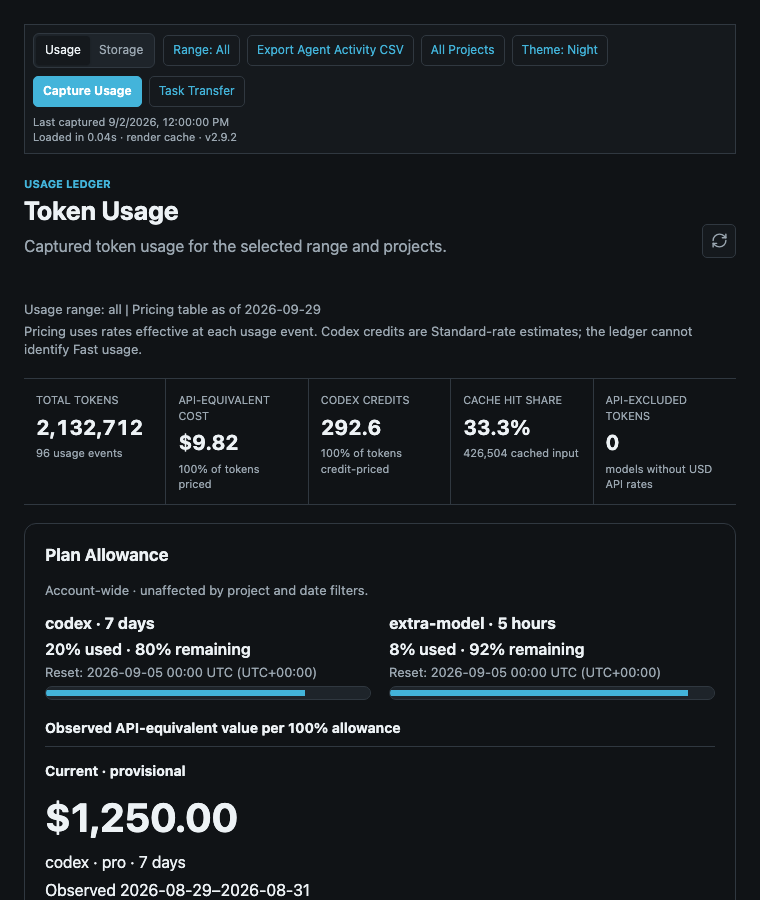
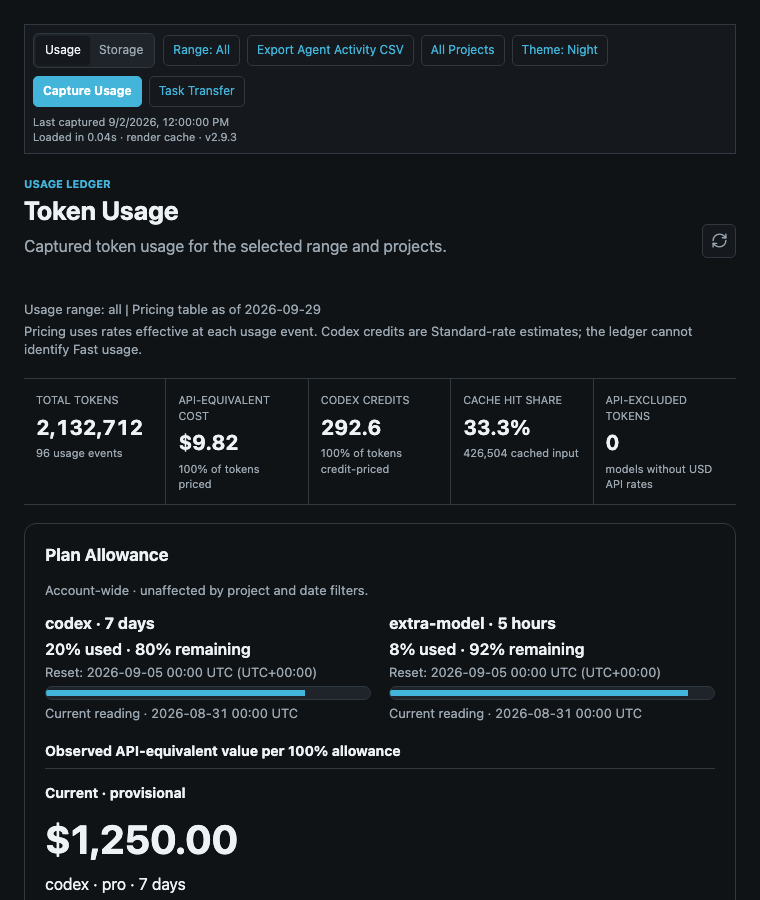
Release 2.9.3

Changed region(s): [[0.0605, 0.7778, 0.8474, 0.9956]]

diff --git a/tests/test_release_history.py b/tests/test_release_history.py
@@ -10,6 +10,7 @@ CHANGELOGS = (ROOT / "CHANGELOG.md", ROOT / "extensions/vscode/CHANGELOG.md")
 SUPPORT_DOCS = (ROOT / "SUPPORT.md", ROOT / "extensions/vscode/SUPPORT.md")
 
 ROOT_RELEASE_DATES = {
+    "2.9.3": "2026-09-29",
     "2.9.2": "2026-09-29",
     "2.9.1": "2026-09-25",
     "2.9.0": "2026-09-25",
@@ -98,6 +99,7 @@ ROOT_RELEASE_DATES = {
     "0.1.0": "2026-05-19",
 }
 EXTENSION_RELEASE_VERSIONS = (
+    "2.9.3",
     "2.9.2",
     "2.9.1",
     "2.9.0",

diff --git a/src/codex_usage/__init__.py b/src/codex_usage/__init__.py
@@ -1,3 +1,3 @@
 """Private capture and ledger core for the Codex Usage VS Code companion."""
 
-__version__ = "2.9.2"
+__version__ = "2.9.3"

diff --git a/docs/release.md b/docs/release.md
@@ -1,6 +1,6 @@
-# 2.9.2 VSIX Release Checklist
+# 2.9.3 VSIX Release Checklist
 
-Codex Usage 2.9.2 ships only the macOS Apple Silicon and Windows x64 VS Code
+Codex Usage 2.9.3 ships only the macOS Apple Silicon and Windows x64 VS Code
 Companion packages. Each VSIX contains exactly one matching, bundled Python
 collector. The extension does not require the former Tauri app, Python, `uv`,
 or a source checkout on the user's machine.
@@ -128,13 +128,13 @@ cannot be run is a release blocker, not an implicit pass.
 
 ## Marketplace Publication
 
-Confirm Python and extension metadata and lockfiles all say `2.9.2`, both
+Confirm Python and extension metadata and lockfiles all say `2.9.3`, both
 changelogs contain a dated entry, and the candidate commit is in `origin/main`.
-Only after the non-publishing platform gate succeeds, create and push `v2.9.2`:
+Only after the non-publishing platform gate succeeds, create and push `v2.9.3`:
 
 ```bash
-git tag v2.9.2
-git push origin v2.9.2
+git tag v2.9.3
+git push origin v2.9.3
 ```
 
 The tag reruns all platform gates and publishes

diff --git a/extensions/vscode/SUPPORT.md b/extensions/vscode/SUPPORT.md
@@ -3,8 +3,11 @@
 Use [GitHub Issues](https://github.com/Wenjun-Mao/codex_usage/issues) for Codex
 Usage Companion support.
 
-Include the extension version, operating system, status-bar state, whether a legacy Codex Usage background service is registered, and redacted
-**Codex Usage** Output channel text. For Task Transfer, include the operation, both computers'
+Include the extension version, operating system, status-bar state, whether a
+legacy Codex Usage background service is registered, and redacted **Codex
+Usage** Output channel text. If Plan Allowance differs from the Codex app,
+include the meter's reading label, local observation time, and redacted probe
+diagnostic. For Task Transfer, include the operation, both computers'
 platforms, transfer-folder provider, and destination-project state.
 
 Never attach raw Codex task JSONLs, `agent.json`, the durable ledger, Task

diff --git a/extensions/vscode/README.md b/extensions/vscode/README.md
@@ -27,7 +27,7 @@ No source checkout, native app, or local copy of this repository is needed.
 
 The extension ships separate platform VSIX packages for macOS 13 or later on
 Apple Silicon and Windows 10 or later on x64. Intel macOS, Windows ARM64, and
-Linux are not supported in 2.9.2.
+Linux are not supported in 2.9.3.
 
 ## What You Can Do
 
@@ -59,7 +59,9 @@ Linux are not supported in 2.9.2.
 The Companion's collector is parent-bound: automatic capture stops when VS Code
 closes. It continues while VS Code is open, even if the dashboard panel is
 closed. Quota snapshots missed while VS Code is closed cannot always be
-reconstructed later. The default interval is 15 minutes.
+reconstructed later. The Plan Allowance meter marks each reading current,
+partially refreshed, or last known and shows its local observation time. The
+default interval is 15 minutes.
 
 ## Commands
 

diff --git a/SUPPORT.md b/SUPPORT.md
@@ -10,6 +10,8 @@ Include:
 - Operating system and architecture: macOS Apple Silicon or Windows x64.
 - Configured capture interval and whether VS Code remained open.
 - Last capture, pending files/bytes, baseline coverage, and stale-source state.
+- Plan Allowance reading label and local observation time if the displayed
+  percentage differs from the Codex app.
 - The affected workflow: Usage, Task Storage, Task Transfer, onboarding, or
   background capture.
 - Relevant redacted collector/extension output and reproducible steps.

diff --git a/CHANGELOG.md b/CHANGELOG.md
@@ -2,6 +2,13 @@
 
 ## Unreleased
 
+## 2.9.3 - 2026-09-29
+
+- Fix Plan Allowance capture with the current ChatGPT-bundled Codex CLI layout
+  on macOS, preserving override, legacy, PATH, and Windows discovery.
+- Mark quota readings current, last known, or partially refreshed and show
+  their observation time in the report's local timezone.
+
 ## 2.9.2 - 2026-09-29
 
 - Price exact GPT-6.1 Sol usage from its published September 29 launch using

diff --git a/README.md b/README.md
@@ -44,7 +44,7 @@ from the VS Code Marketplace. Separate macOS Apple Silicon and Windows x64
 packages each include the matching local collector; the native app, Python,
 `uv`, and this repository are not required.
 
-Intel macOS, Windows ARM64, and Linux are not supported in the 2.9.2 release.
+Intel macOS, Windows ARM64, and Linux are not supported in the 2.9.3 release.
 
 ## First Run And Legacy Service Handoff
 

diff --git a/extensions/vscode/CHANGELOG.md b/extensions/vscode/CHANGELOG.md
@@ -2,6 +2,13 @@
 
 ## Unreleased
 
+## 2.9.3 - 2026-09-29
+
+- Restore Plan Allowance capture for system and user installs of the current
+  ChatGPT-bundled Codex CLI on macOS.
+- Show whether a quota meter is current, last known, or partially refreshed,
+  with the successful observation's local date and time.
+
 ## 2.9.2 - 2026-09-29
 
 - Recognize GPT-6.1 Sol with its published API-equivalent and Standard credit

diff --git a/docs/adr/0044-plan-allowance-analytics.md b/docs/adr/0044-plan-allowance-analytics.md
@@ -4,7 +4,7 @@
 
 Accepted for 2.8.0 on 2026-09-21; amended for 2.8.4 on 2026-09-24,
 indexed report calculation on 2026-09-25, and visible reading freshness for
-2.9.2 on 2026-09-29.
+2.9.3 on 2026-09-29.
 
 ## Context
 
